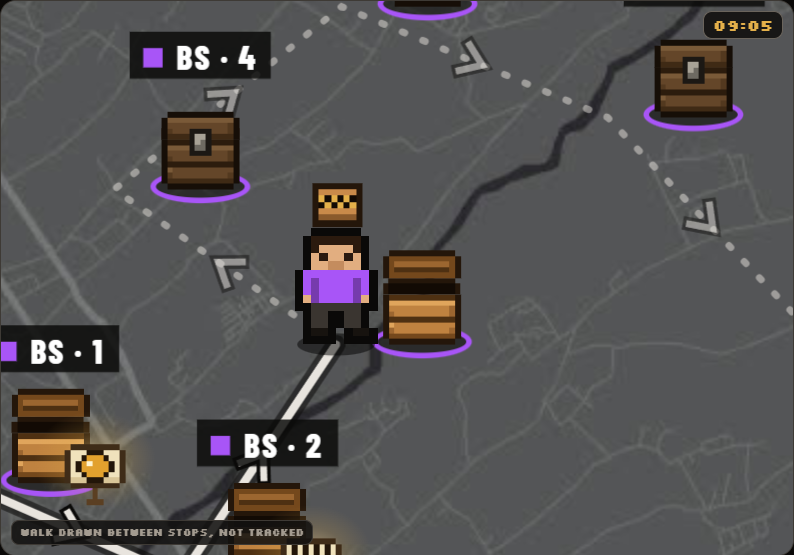
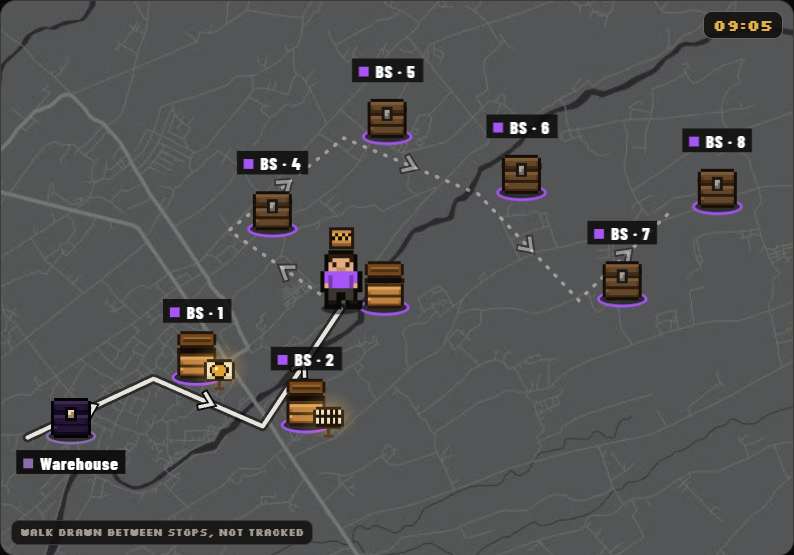
Day Replay v2: shop cards + receipt + camera per width (his 16:10 answer); his taste recorded

diff --git a/Raw/2026-10-04-day-replay/day-replay.html b/Raw/2026-10-04-day-replay/day-replay.html
@@ -158,7 +158,58 @@ body.phone .card { display: grid; }
 .chip.now { border-color: var(--gold); color: var(--gold); }
 .chip.future { opacity: .5; }
 
+/* ---------------- every shop answers a press: its card (his "all the stores is interactable when press") ---------------- */
+.stop { cursor: pointer; }
+.stop::after { content: ''; position: absolute; left: -10px; right: -16px; top: -8px; bottom: -10px; }   /* a bigger finger target than the 28 px chest */
+.stop.picked .ring { border-color: var(--gold-2); border-width: 3px; }
+@media (hover: hover) and (pointer: fine) { .stop:hover .ring { border-color: var(--gold-2); } }
+/* the card never sits ON the map (a real press on the next shop hit the card instead): top of the Day Log on a PC,
+   under the timeline on a phone, where it stands in for the event card */
+.shopcard { display: grid; gap: 8px; padding: 12px; border: 1px solid var(--gold); border-radius: 14px; background: var(--raised); animation: sc-in 180ms var(--ease-out) both; }
+.shopcard[hidden] { display: none; }
+@keyframes sc-in { from { opacity: 0; transform: translateY(6px); } }
+body.phone.shopopen .card { display: none; }
+.sc-top { display: grid; grid-template-columns: 34px minmax(0, 1fr) 40px; gap: 10px; align-items: center; }
+.sc-top > svg { width: 34px; height: 34px; }
+.sc-top b { display: block; font: 800 19px/1.05 var(--font-display); letter-spacing: .03em; text-transform: uppercase; overflow-wrap: anywhere; }
+.sc-top small { color: var(--ink-muted); font: 700 10px/1.5 var(--font-pixel); }
+.sc-x { width: 40px; height: 40px; border: 1px solid var(--line-3); border-radius: 10px; background: var(--raised); cursor: pointer; font-size: 18px; line-height: 1; }
+.sc-status { margin: 0; display: flex; align-items: center; gap: 8px; font: 800 15px/1.15 var(--font-display); letter-spacing: .04em; text-transform: uppercase; }
+.sc-status i { width: 9px; height: 9px; flex: none; background: var(--tone); box-shadow: 0 0 0 2px rgba(10, 9, 8, .9); }
+.sc-note { margin: 0; padding: 8px 10px; border-left: 3px solid var(--line-3); background: var(--inset); border-radius: 0 8px 8px 0; font-size: 14px; }
+.sc-extra, .sc-by { margin: 0; font-size: 12.5px; color: var(--ink-muted); }
+.sc-acts { display: flex; flex-wrap: wrap; gap: 8px; }
+.sc-acts .tog { min-height: 44px; }
+.tog.gold { border-color: var(--gold); color: var(--on-gold); background: var(--gold); font-weight: 700; }
+.rowwrap { position: relative; }
+.rc { position: absolute; right: 8px; top: 8px; min-height: 30px; padding: 0 9px; border: 1px solid var(--gold); border-radius: 8px; background: var(--raised); color: var(--gold); cursor: pointer; font: 700 9.5px/1 var(--font-pixel); }
+.row.has-rc { padding-right: 84px; }
+.card .acts2 { display: flex; gap: 8px; }
+
+/* ---------------- the receipt: KPM's nota keeps the company blue (the palette law stops at the sheet's edge) ---------------- */
+.rcpt { position: fixed; inset: 0; z-index: 50; display: grid; place-items: start center; align-content: start; gap: 10px; padding: 16px; overflow-y: auto; background: rgba(5, 4, 3, .88); }
+.rcpt[hidden] { display: none; }
+.rcpt .bar2 { width: min(560px, 100%); display: flex; justify-content: space-between; align-items: center; gap: 8px; }
+.rcpt .bar2 span { color: var(--ink-muted); font: 700 10px/1.4 var(--font-pixel); }
+.sheetbox { width: min(560px, 100%); overflow: hidden; border-radius: 4px; box-shadow: 0 20px 50px rgba(0, 0, 0, .6); }
+.sheet { width: 794px; transform-origin: 0 0; background: #ffffff; color: #000000; padding: 48px; font: 400 14px/1.45 system-ui, -apple-system, "Segoe UI", Roboto, sans-serif; }
+.sheet .lh { display: flex; justify-content: space-between; align-items: flex-end; gap: 32px; padding-bottom: 16px; margin-bottom: 20px; border-bottom: 4px solid #1e40af; }
+.sheet .lh h3 { margin: 0; font: 900 28px/1.1 system-ui, sans-serif; letter-spacing: .1em; text-transform: uppercase; color: #1e3a8a; }
+.sheet .lh p { margin: 4px 0 0; font-weight: 700; font-size: 13px; color: #334155; }
+.sheet .lh h4 { margin: 0; font: 700 22px/1.1 system-ui, sans-serif; letter-spacing: .1em; text-transform: uppercase; color: #1e40af; text-align: right; }
+.sheet .lh small { display: block; text-align: right; margin-top: 4px; font-size: 11px; font-weight: 700; color: #64748b; letter-spacing: .06em; }
+.sheet .samp { margin-bottom: 18px; padding: 10px; text-align: center; font-weight: 900; font-size: 13px; letter-spacing: .1em; text-transform: uppercase; border: 2px dashed #b91c1c; color: #b91c1c; }
+.sheet .meta { display: grid; grid-template-columns: 1fr 1fr; gap: 4px 24px; margin-bottom: 18px; font-size: 13.5px; color: #1e293b; }
+.sheet table { width: 100%; border-collapse: collapse; margin-bottom: 18px; font-size: 14px; }
+.sheet th, .sheet td { padding: 10px 12px; border: 2px solid #1e293b; }
+.sheet th { background: #eff6ff; color: #1e3a8a; font-weight: 900; }
+.sheet .tot td { font-weight: 900; }
+.sheet .ft { display: flex; justify-content: space-between; gap: 32px; font-size: 13.5px; color: #334155; }
+.sheet .sig { width: 220px; text-align: center; }
+.sheet .sig b { display: block; margin-top: 56px; padding-top: 4px; border-top: 1px solid #94a3b8; color: #000000; text-transform: uppercase; }
+
 html.lite *, html.lite *::before, html.lite *::after { transition: none !important; }
+html.lite .shopcard { animation: none; }
 @media (prefers-reduced-motion: reduce) { *, *::before, *::after { transition: none !important; } .kpm-coin::before { animation: none; transform: translateX(-54px); } }
 @media (max-width: 900px) { .replay { grid-template-columns: minmax(0, 1fr); } }
 </style>
@@ -185,6 +236,7 @@ html.lite *, html.lite *::before, html.lite *::after { transition: none !importa
         <div class="cam" id="cam"><div class="world"></div><svg class="route" id="route" viewBox="0 0 600 420"></svg><div id="things"></div></div>
         <span class="clockbig" id="clock">07:45</span>
         <span class="mapnote">Walk drawn between stops, not tracked</span>
+        <section class="shopcard" id="shopcard" aria-live="polite" hidden></section>
       </div>
       <section class="player" aria-label="Replay">
         <div class="tl" id="tl" role="slider" aria-label="Time of day" aria-valuemin="0" aria-valuemax="100" tabindex="0">
@@ -212,6 +264,12 @@ html.lite *, html.lite *::before, html.lite *::after { transition: none !importa
     </aside>
   </div>
 
+  <div class="rcpt" id="rcpt" role="dialog" aria-modal="true" aria-label="Receipt" hidden>
+    <div class="bar2"><span>Sample nota · the sale at Toko Berkah Jaya</span><button class="tog" type="button" id="rcptx">Close</button></div>
+    <div class="sheetbox" id="sheetbox"><div class="sheet" id="sheet"></div></div>
+  </div>
+
+  <p class="note"><b>Press any shop on the map</b> to see what happened there, his note and the time; a sale has its receipt. Pressing a shop pauses the replay; "Play from here" carries on from that shop.</p>
   <p class="note"><b>Why the walk is drawn:</b> a phone sends its position only when he sells or opens the app, so the line between two stops is the straight way from one to the next, not his real road.</p>
   <p class="note"><b>Where each line comes from in the app:</b> a sale and an exchange are the terminal's own records (with their time). Stock full, competitor, request, closed and check are the Visit Report he sends from Journey Plan; the app already keeps each one with its time in the activity log. The time shown is when he pressed Report, not when he arrived.</p>
 </main>
@@ -277,11 +335,14 @@ const MAN = { ini: 'BS', name: 'Budi Santoso', hair: '#2B1A0E', shirt: '#a855f7'
 const m = (hm) => { const [h, mi] = hm.split(':').map(Number); return h * 60 + mi; };
 const START = { x: 78, y: 360, time: '07:45', name: 'Regional warehouse', result: 'Day starts · van loaded', note: '40 slop on the van' };
 const STOPS = [
-  { x: 168, y: 318, time: '08:12', name: 'Toko Berkah Jaya',     kind: 'sold',    label: 'Sale',                  result: 'Sale · Rp 250.000',               note: 'Ambil 10 slop, bayar cash' },
+  { x: 168, y: 318, time: '08:12', name: 'Toko Berkah Jaya',     kind: 'sold',    label: 'Sale',                  result: 'Sale · Rp 250.000',               note: 'Bayar cash, minta nota',
+    nota: 'PJ-041026-0812', pay: 'Cash', items: [['Djarum Coklat 12', '1 slop', 'Rp 170.000'], ['Sampoerna Mild 16', '3 bungkus', 'Rp 80.000']] },
   { x: 246, y: 352, time: '08:41', name: 'Warung Sumber Rejeki', kind: 'full',    label: 'Stock Full (No Order)', result: 'Stock full · no order',            note: 'Stok minggu lalu masih 6 slop' },
-  { x: 302, y: 268, time: '09:05', name: 'Toko Makmur',          kind: 'swap',    label: 'Exchange (retur)',      result: 'Exchange · 2 packs to Quarantine', note: 'Kemasan penyok, tukar 2 bungkus' },
+  { x: 302, y: 268, time: '09:05', name: 'Toko Makmur',          kind: 'swap',    label: 'Exchange (retur)',      result: 'Exchange · 2 packs to Quarantine', note: 'Kemasan penyok, tukar 2 bungkus',
+    extra: 'Back with him: 2 bungkus Gudang Garam Surya 12, dented packs, booked into Quarantine.' },
   { x: 222, y: 212, time: '09:31', name: 'Warung Bu Sri',        kind: 'issue',   label: 'Competitor Issue',      result: 'Competitor issue',                 note: 'Ada promo merek lain, beli 2 gratis 1' },
-  { x: 304, y: 146, time: '09:58', name: 'Toko Sinar Abadi',     kind: 'order',   label: 'Repeat Order',          result: 'Repeat order · 15 slop',           note: 'Minta dikirim hari Kamis' },
+  { x: 304, y: 146, time: '09:58', name: 'Toko Sinar Abadi',     kind: 'order',   label: 'Repeat Order',          result: 'Repeat order · 15 slop',           note: 'Minta dikirim hari Kamis',
+    extra: 'An order, not a sale yet: 15 slop to deliver on Thursday.' },
   { x: 400, y: 186, time: '10:24', name: 'Warung Pojok',         kind: 'request', label: 'New Request',           result: 'New request',                      note: 'Minta rasa menthol' },
   { x: 472, y: 262, time: '10:47', name: 'Toko Lancar',          kind: 'closed',  label: 'Store Closed',          result: 'Store closed',                     note: 'Tutup, pemilik ke pasar' },
   { x: 540, y: 196, time: '11:10', name: 'Warung Barokah',       kind: 'routine', label: 'Routine Check',         result: 'Routine check · stock OK',         note: 'Stok aman' },
@@ -318,10 +379,10 @@ const hm = (c) => { const h = Math.floor(c / 60), mi = Math.floor(c % 60); retur
 
 /* ===== build the world ===== */
 const things = document.getElementById('things'), route = document.getElementById('route');
-let html = `<div class="stop warehouse" style="left:${START.x - 14}px;top:${START.y - 31}px;--c:#8A6BB0"><i class="ring"></i>${chestSvg(WEND, WEND).replace('class="lfd"', 'class="lfd" style="opacity:0"').replace('class="lfb" style="opacity:0"', 'class="lfb"').replace('class="bd"', 'class="bd" style="opacity:0"').replace('class="bb" style="opacity:0"', 'class="bb"')}<span class="otag"><i></i>Warehouse</span></div>`;
+let html = `<div class="stop warehouse" data-k="0" role="button" tabindex="0" aria-label="Regional warehouse, day starts 07:45" style="left:${START.x - 14}px;top:${START.y - 31}px;--c:#8A6BB0"><i class="ring"></i>${chestSvg(WEND, WEND).replace('class="lfd"', 'class="lfd" style="opacity:0"').replace('class="lfb" style="opacity:0"', 'class="lfb"').replace('class="bd"', 'class="bd" style="opacity:0"').replace('class="bb" style="opacity:0"', 'class="bb"')}<span class="otag"><i></i>Warehouse</span></div>`;
 STOPS.forEach((s, i) => {
   const k = i + 1;
-  html += `<div class="stop future" id="s${k}" style="left:${s.x - 14}px;top:${s.y - 31}px;--c:${MAN.shirt}"><i class="ring"></i>${chestSvg()}`
+  html += `<div class="stop future" id="s${k}" data-k="${k}" role="button" tabindex="0" aria-label="${s.name}, ${s.label} at ${s.time}" style="left:${s.x - 14}px;top:${s.y - 31}px;--c:${MAN.shirt}"><i class="ring"></i>${chestSvg()}`
     + `<span class="otag"><i></i>${MAN.ini} · ${k}</span><i class="sign" style="opacity:0"><i class="lamp"></i>${sign(s.kind)}</i>`
     + `<span class="prop p1"></span><span class="prop p2"></span><span class="prop p3"></span><span class="prop p4"></span>`
     + Array.from({ length: 6 }, (_, j) => `<i class="spark sp${j}" style="opacity:0"></i>`).join('') + `</div>`;
@@ -433,11 +494,12 @@ STOPS.forEach((s, i) => {
 /* ===== the panel: Day Log rows (PC), chips + one card (phone), notches on the timeline ===== */
 const EVENTS = [{ ...START, kind: 'start', label: 'Day starts' }, ...STOPS];
 const SIGN_HTML = (k) => sign(k);
-document.getElementById('rows').innerHTML = EVENTS.map((e, i) => `<li><button class="row future" type="button" data-k="${i}"><span class="t">${e.time}</span>${SIGN_HTML(e.kind)}<span class="s"><b>${e.name}</b><span>${e.result}</span><em>${e.note}</em></span></button></li>`).join('');
+document.getElementById('rows').innerHTML = EVENTS.map((e, i) => `<li class="rowwrap"><button class="row future${e.nota ? ' has-rc' : ''}" type="button" data-k="${i}"><span class="t">${e.time}</span>${SIGN_HTML(e.kind)}<span class="s"><b>${e.name}</b><span>${e.result}</span><em>${e.note}</em></span></button>`
+  + (e.nota ? `<button class="rc" type="button" data-rc="${i}">Receipt</button>` : '') + '</li>').join('');
 const sold = STOPS.filter((s) => s.kind === 'sold').length, noOrder = STOPS.filter((s) => ['full', 'issue', 'request', 'routine'].includes(s.kind)).length;
 document.getElementById('stats').innerHTML = `<div><b>Rp 250.000</b><small>${sold} sale + 1 order</small></div><div><b>${noOrder}</b><small>visits, no order</small></div><div><b>3 h 25 m</b><small>07:45 to 11:10</small></div>`;
 const card = document.getElementById('card');
-card.innerHTML = '<div class="head2" id="chead"></div><p id="cres"></p><p class="n" id="cnote"></p><div class="chips" id="chips">'
+card.innerHTML = '<div class="head2" id="chead"></div><p id="cres"></p><p class="n" id="cnote"></p><div class="acts2" id="cacts"></div><div class="chips" id="chips">'
   + EVENTS.map((e, i) => `<button class="chip future" type="button" data-k="${i}">${SIGN_HTML(e.kind)}${e.time}</button>`).join('') + '</div>';
 document.getElementById('notches').innerHTML = EVENTS.map((e, i) => `<button class="notch" type="button" data-k="${i}" aria-label="${e.time} ${e.name}" style="left:${((T[i] - DAY0) / (DAY1 - DAY0) * 100).toFixed(3)}%">${SIGN_HTML(e.kind)}</button>`).join('');
 document.getElementById('hours').innerHTML = [8, 9, 10, 11].map((h) => `<span style="left:${((h * 60 - DAY0) / (DAY1 - DAY0) * 100).toFixed(3)}%">${String(h).padStart(2, '0')}:00</span>`).join('');
@@ -481,7 +543,8 @@ function render(t, snap) {
   man.style.transform = `translate(${p.x - 15 + dx}px, ${p.y - 42 + dy}px)`;
   fig.style.transform = p.flip ? 'scaleX(-1)' : '';
   man.dataset.legs = p.legs; man.dataset.held = held; man.classList.toggle('up', up);
-  man.classList.toggle('busy', !lite && s.kind === 'scene' && local > 250 && local < 1850);
+  /* while he stands at a shop (its scene, the first steps away, the day's end) the shop's own tag is the label - his would sit on it */
+  man.classList.toggle('busy', (s.kind === 'scene' && (lite || local > 250)) || s.kind === 'end' || (s.kind === 'walk' && s.k > 1 && (t - s.t0) / (s.t1 - s.t0) < 0.3));
   const visited = STOPS.filter((_, i) => { const ss = sceneSeg(i + 1); return t >= ss.t0 + (lite ? 0 : 1300); }).length;
   document.getElementById('mantag').textContent = `${MAN.ini} · ${visited}/${STOPS.length}`;
   /* the trail */
@@ -509,6 +572,7 @@ function render(t, snap) {
     document.getElementById('chead').innerHTML = `${SIGN_HTML(e.kind)}<div><b>${e.name}</b><small>${e.time} · ${e.label || ''}</small></div>`;
     document.getElementById('cres').textContent = e.result;
     document.getElementById('cnote').textContent = '"' + e.note + '"';
+    document.getElementById('cacts').innerHTML = e.nota ? `<button class="tog gold" type="button" data-rc="${cur}">Review receipt</button>` : '';
     document.getElementById('now').innerHTML = `${e.name}<small>${e.time} · ${e.result}</small>`;
   }
   /* the camera: the whole day framed, or his spot followed */
@@ -542,7 +606,55 @@ const curIdx = () => { const s = segAt(t); return s.kind === 'walk' ? s.k - 1 : 
 document.getElementById('prev').addEventListener('click', () => { const s = segAt(t), i = curIdx(); jumpTo(s.kind === 'scene' && t - s.t0 > 600 ? i : Math.max(0, i - 1)); });
 document.getElementById('next').addEventListener('click', () => jumpTo(Math.min(STOPS.length, curIdx() + 1)));
 document.querySelectorAll('[data-sp]').forEach((b) => b.addEventListener('click', () => { speed = +b.dataset.sp; document.querySelectorAll('[data-sp]').forEach((x) => x.setAttribute('aria-pressed', x === b)); }));
-document.addEventListener('click', (e) => { const b = e.target.closest('.row, .chip, .notch'); if (b) jumpTo(+b.dataset.k); });
+document.addEventListener('click', (e) => {
+  const rc = e.target.closest('[data-rc]'); if (rc) { openReceipt(+rc.dataset.rc); return; }
+  const b = e.target.closest('.row, .chip, .notch'); if (b) jumpTo(+b.dataset.k);
+});
+
+/* ===== a pressed shop: its card - what happened, his note, the time, the receipt of a sale. Pressing pauses the replay ===== */
+const shopcard = document.getElementById('shopcard');
+const TONE = { sold: 'var(--gold)', order: 'var(--gold)', routine: 'var(--ink)', full: '#C98A4A', request: '#C98A4A', swap: '#C98A4A', issue: 'var(--crit)', closed: 'var(--crit)', start: '#8A6BB0' };
+function openCard(i) {
+  const e = EVENTS[i]; setPlaying(false);
+  document.querySelectorAll('.stop').forEach((s) => s.classList.toggle('picked', +s.dataset.k === i));
+  const tag = i === 0 ? 'Warehouse' : `${MAN.ini} · stop ${i}`;
+  const by = i === 0 ? `His first position of the day, ${e.time}` : e.nota || e.kind === 'swap' ? `Recorded by the terminal at ${e.time} · ${MAN.name}` : `Visit Report by ${MAN.name} at ${e.time}`;
+  shopcard.innerHTML = `<div class="sc-top">${sign(e.kind)}<div><b>${e.name}</b><small>${tag} · ${e.time}</small></div><button class="sc-x" type="button" aria-label="Close">×</button></div>`
+    + `<p class="sc-status" style="--tone:${TONE[e.kind]}"><i></i>${e.result}</p><p class="sc-note">"${e.note}"</p>`
+    + (e.extra ? `<p class="sc-extra">${e.extra}</p>` : '') + `<p class="sc-by">${by}</p>`
+    + `<div class="sc-acts">${e.nota ? `<button class="tog gold" type="button" data-rc="${i}">Review receipt</button>` : ''}<button class="tog" type="button" data-from="${i}">Play from here</button></div>`;
+  shopcard.hidden = false; document.body.classList.add('shopopen');
+  shopcard.querySelector('.sc-x').focus({ preventScroll: true });
+  const b = shopcard.getBoundingClientRect(); if (b.bottom > innerHeight || b.top < 0) shopcard.scrollIntoView({ block: 'nearest', behavior: lite ? 'auto' : 'smooth' });
+}
+function closeCard() { shopcard.hidden = true; document.body.classList.remove('shopopen'); document.querySelectorAll('.stop.picked').forEach((s) => s.classList.remove('picked')); }
+const placeCard = () => { if (document.body.classList.contains('phone')) document.querySelector('.player').after(shopcard); else document.querySelector('.log').prepend(shopcard); };
+things.addEventListener('click', (ev) => { const st = ev.target.closest('.stop'); if (st) openCard(+st.dataset.k); });
+things.addEventListener('keydown', (ev) => { const st = ev.target.closest('.stop'); if (st && (ev.key === 'Enter' || ev.key === ' ')) { ev.preventDefault(); openCard(+st.dataset.k); } });
+shopcard.addEventListener('click', (ev) => {
+  if (ev.target.closest('.sc-x')) closeCard();
+  const f = ev.target.closest('[data-from]'); if (f) { const i = +f.dataset.from; closeCard(); jumpTo(i); setPlaying(true); }
+});
+
+/* ===== the receipt of a sale: KPM's own nota (company blue - not app UI), marked as a sample ===== */
+const rcpt = document.getElementById('rcpt'), sheet = document.getElementById('sheet'), sheetbox = document.getElementById('sheetbox');
+const fitSheet = () => { const sc = sheetbox.clientWidth / 794; sheet.style.transform = `scale(${sc})`; sheetbox.style.height = Math.ceil(sheet.offsetHeight * sc) + 'px'; };
+function openReceipt(i) {
+  const e = EVENTS[i]; if (!e?.nota) return; setPlaying(false);
+  sheet.innerHTML = `<div class="lh"><div><h3>PT Karyamega Putera Mandiri</h3><p>Jl. Raya Magelang - Purworejo Km. 11</p></div><div><h4>Nota Penjualan</h4><small>No. ${e.nota}</small></div></div>`
+    + `<div class="samp">Sample only · not a real transaction</div>`
+    + `<div class="meta"><span><b>Kepada:</b> ${e.name}</span><span><b>Tanggal:</b> Minggu, 4 Oktober 2026 · ${e.time}</span><span><b>Sales:</b> ${MAN.name}</span><span><b>Pembayaran:</b> ${e.pay}</span></div>`
+    + `<table><thead><tr><th style="width:52px">NO</th><th style="text-align:left">MACAM BARANG</th><th style="width:120px">QTY</th><th style="width:160px;text-align:right">JUMLAH</th></tr></thead><tbody>`
+    + e.items.map((it, j) => `<tr><td style="text-align:center">${j + 1}</td><td>${it[0]}</td><td style="text-align:center">${it[1]}</td><td style="text-align:right">${it[2]}</td></tr>`).join('')
+    + `<tr class="tot"><td colspan="3" style="text-align:right">TOTAL</td><td style="text-align:right">${e.result.split('· ')[1]}</td></tr></tbody></table>`
+    + `<div class="ft"><div>Rekening: as set in Settings</div><div class="sig">Hormat kami,<b>Admin</b></div></div>`;
+  rcpt.querySelector('.bar2 span').textContent = `Sample nota · the sale at ${e.name}, ${e.time}`;
+  rcpt.hidden = false; fitSheet(); document.getElementById('rcptx').focus({ preventScroll: true });
+}
+function closeReceipt() { rcpt.hidden = true; }
+document.getElementById('rcptx').addEventListener('click', closeReceipt);
+rcpt.addEventListener('click', (ev) => { if (ev.target === rcpt) closeReceipt(); });
+addEventListener('resize', () => { if (!rcpt.hidden) fitSheet(); });
 /* scrub: press and drag anywhere along the timeline (the notches jump instead) */
 const tl = document.getElementById('tl');
 let scrubbing = false, wasPlaying = false;
@@ -552,21 +664,26 @@ tl.addEventListener('pointermove', (e) => { if (scrubbing) seek(tAtClock(toClock
 tl.addEventListener('pointerup', () => { if (!scrubbing) return; scrubbing = false; if (wasPlaying) setPlaying(true); });
 document.addEventListener('keydown', (e) => {
   if (e.target.closest('input, textarea')) return;
-  if (e.key === ' ' && !e.target.closest('button')) { e.preventDefault(); setPlaying(!playing); }
+  if (e.key === 'Escape') { if (!rcpt.hidden) closeReceipt(); else if (!shopcard.hidden) closeCard(); return; }
+  if (e.key === ' ' && !e.target.closest('button, [role="button"]')) { e.preventDefault(); setPlaying(!playing); }
   if (e.key === 'ArrowRight') jumpTo(Math.min(STOPS.length, curIdx() + 1));
   if (e.key === 'ArrowLeft') jumpTo(Math.max(0, curIdx() - 1));
 });
 /* toggles */
 const press = (sel, attr, fn) => document.querySelectorAll(sel).forEach((b) => b.addEventListener('click', () => { document.querySelectorAll(sel).forEach((x) => x.setAttribute('aria-pressed', x === b)); fn(b.dataset[attr]); render(t, true); }));
+/* his call 2026-10-04: "see as a whole in pc and follow on phone" - each layout opens on its own camera; the switch stays */
+const setCam = (v) => { camMode = v; document.querySelectorAll('[data-cam]').forEach((x) => x.setAttribute('aria-pressed', x.dataset.cam === v)); };
 press('[data-cam]', 'cam', (v) => { camMode = v; });
-press('[data-lay]', 'lay', (v) => { document.body.classList.toggle('phone', v === 'phone'); lastK = -1; });
+press('[data-lay]', 'lay', (v) => { document.body.classList.toggle('phone', v === 'phone'); setCam(v === 'phone' ? 'follow' : 'whole'); placeCard(); lastK = -1; });
+setCam('whole');
 const reduce = matchMedia('(prefers-reduced-motion: reduce)');
 const setLite = (v) => { lite = v || reduce.matches; document.documentElement.classList.toggle('lite', lite); document.getElementById('lite').setAttribute('aria-pressed', lite); render(t, true); };
 document.getElementById('lite').addEventListener('click', () => setLite(!lite));
-if (matchMedia('(max-width: 640px)').matches) { document.body.classList.add('phone'); document.querySelectorAll('[data-lay]').forEach((x) => x.setAttribute('aria-pressed', x.dataset.lay === 'phone')); }
+if (matchMedia('(max-width: 640px)').matches) { document.body.classList.add('phone'); document.querySelectorAll('[data-lay]').forEach((x) => x.setAttribute('aria-pressed', x.dataset.lay === 'phone')); setCam('follow'); }
+placeCard();
 new ResizeObserver(() => render(t, true)).observe(box);
 setLite(false);
-window.__replay = { seek: (ms) => seek(ms, false), get t() { return t; }, TOTAL, SEGS, sceneSeg, setLite, play: () => setPlaying(true), pause: () => setPlaying(false) };   /* for the lab's frozen frames */
+window.__replay = { seek: (ms) => seek(ms, false), get t() { return t; }, get playing() { return playing; }, get cam() { return camMode; }, TOTAL, SEGS, sceneSeg, setLite, play: () => setPlaying(true), pause: () => setPlaying(false) };   /* for the lab's frozen frames */
 render(0, true);
 requestAnimationFrame(frame);
 </script>

diff --git a/Wiki/Concepts/Aldi's Design Taste.md b/Wiki/Concepts/Aldi's Design Taste.md
@@ -3218,3 +3218,17 @@ own name tag "BS · 3" on each chest, C his 8-bit head with the number), each ch
 - His original complaint stands as the rule: *"a clearer indicator that the chest is theirs to collect not just color
   ... especially for the people who color blinds"* - ownership is never carried by colour alone.
   [[../../Brainstorm/2026-10-03_journey-map-keys]] "Round 7".
+
+## A replay must be readable at the sprite's size; every object he sees is something he can press (2026-10-04, 16:10)
+
+Shown the Day Replay prototype (a salesman's day replayed on the pixel map, a scene per visit outcome):
+
+> *"that is really cool bro make sure that all the stores is interactable when press and make sure that we now what them notes or status are on each of the stores we, and better if there is button to review the receipt from that sales , well looks like follow him is more visible because the map can be large and it will make the 8 bit model small and hard to see especially on phone, maybe see as a whole in pc and follow on phone?"*
+
+- **The camera split by width again** - Whole day on the PC, Follow him on the phone - and the reason is size: the
+  8-bit model must stay big enough to read. Same habit as the expedition (2026-10-02) and the header (2026-10-03).
+- **Anything drawn on the map is a door.** A shop he can see but not press is a dead object to him; each one must open
+  its status, the salesman's note and, for a sale, the receipt. The receipt is the app's own nota (company blue).
+- Built into v2 of https://claude.ai/artifact/WnjonLSqjNZYpoMBbXSdSz. The card lives OFF the map (beside it on the
+  PC, under it on the phone) - over the map it covered the next shop he wanted to press (measured with real presses).
+  [[../../Brainstorm/2026-10-04_journey-day-replay]]

diff --git a/Brainstorm/2026-10-04_journey-day-replay.md b/Brainstorm/2026-10-04_journey-day-replay.md
@@ -87,3 +87,17 @@ OPEN - his pick owed: camera Follow him / Whole day; and any scene that does not
 
 Models applied: Inversion (what makes the replay lie - the drawn walk, the report time), Second-Order Thinking
 (salesmen behave differently once every visit is checkable), Opportunity Cost (the popup redesign waits).
+
+## v2 2026-10-04 16:40 - his answer built (same link)
+
+His words, 16:10: *"make sure that all the stores is interactable when press and make sure that we now what them notes or
+status are on each of the stores ... button to review the receipt from that sales ... maybe see as a whole in pc and follow
+on phone?"* Built: every shop (and the warehouse) opens a card - status, his note, the time and who recorded it, an
+order's or an exchange's detail, "Play from here"; pressing pauses the replay. A sale's card and its Day Log row carry
+"Review receipt" -> the app's nota (company blue, SAMPLE banner, the bank line left to Settings - no real account copied).
+Camera: PC opens on Whole day, phone on Follow him; the switch stays.
+**Measured (shoot-v2.mjs, REAL mouse/touch presses):** all 9 cards name the shop pressed; receipt 2 items + total; Esc
+closes it; Play from here plays from that shop; phone receipt 358 px, 0 sideways scroll; 0 errors; brightness 81.7-84.4.
+**Found by the real presses:** the card first floated over the map and covered shops 1 and 2 - a press on them hit the
+card. Moved off the map. And his tag sat on the shop's own tag while he stood there - his steps aside then.
+OPEN: nothing owed on the drawing; next = build (NEXT-SESSION.md).
